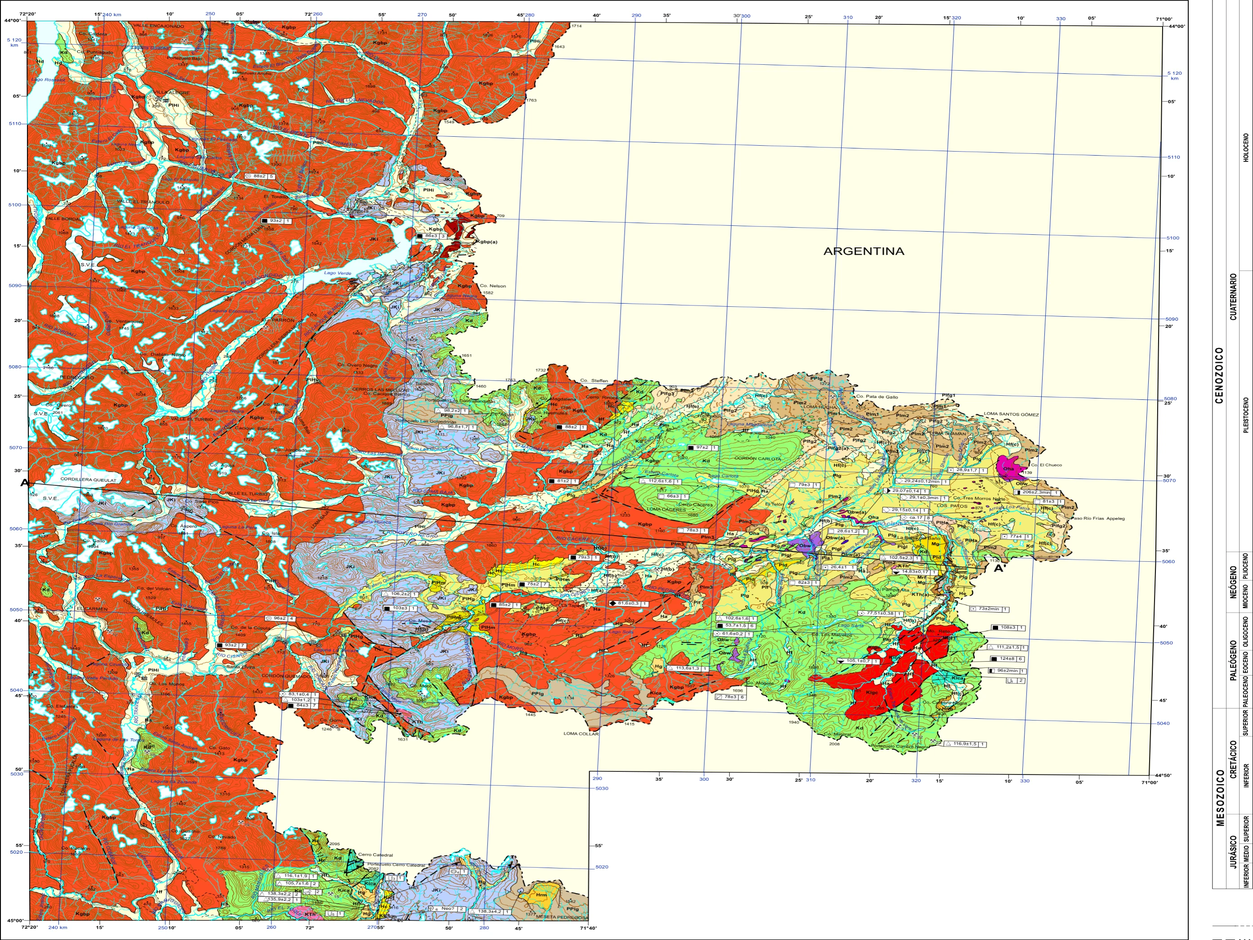
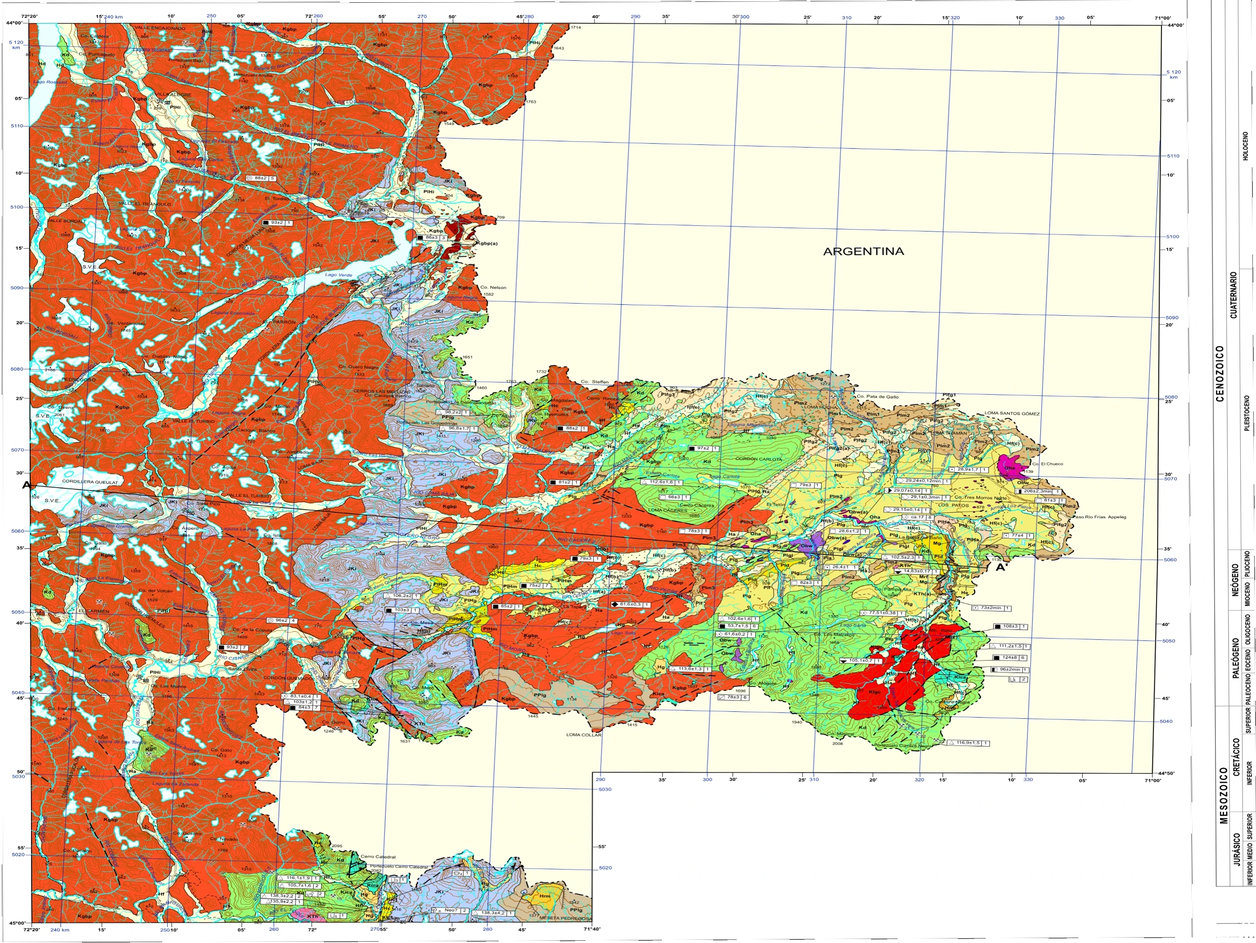
CGCH-29 vuelve a su georreferencia original (serie antigua georreferenciada a mano: no se modifica); GB-127 Puerto Cisnes corregido con deformación TPS contra el relieve SRTM (208 m → 11 m)

diff --git a/index.html b/index.html
@@ -116,7 +116,7 @@
 <script>
 const CATS = [["geologia","🗺 Geología Básica"],["aplicada","⚠ Geología Aplicada"],
   ["historico","📜 Histórico"],["academico","🎓 Académicos"],["hillshade","🏔 Hillshade"]];
-const ASSET_V = '?v=20261010c';   // cache-bust de overlays/leyendas (subir al cambiar assets)
+const ASSET_V = '?v=20261010d';   // cache-bust de overlays/leyendas (subir al cambiar assets)
 const map = L.map('map',{center:[-33.9,-71.2],zoom:5});
 const bases = {
   "Satelital": L.tileLayer('https://server.arcgisonline.com/ArcGIS/rest/services/World_Imagery/MapServer/tile/{z}/{y}/{x}',{maxZoom:19,attribution:'Esri'}),
